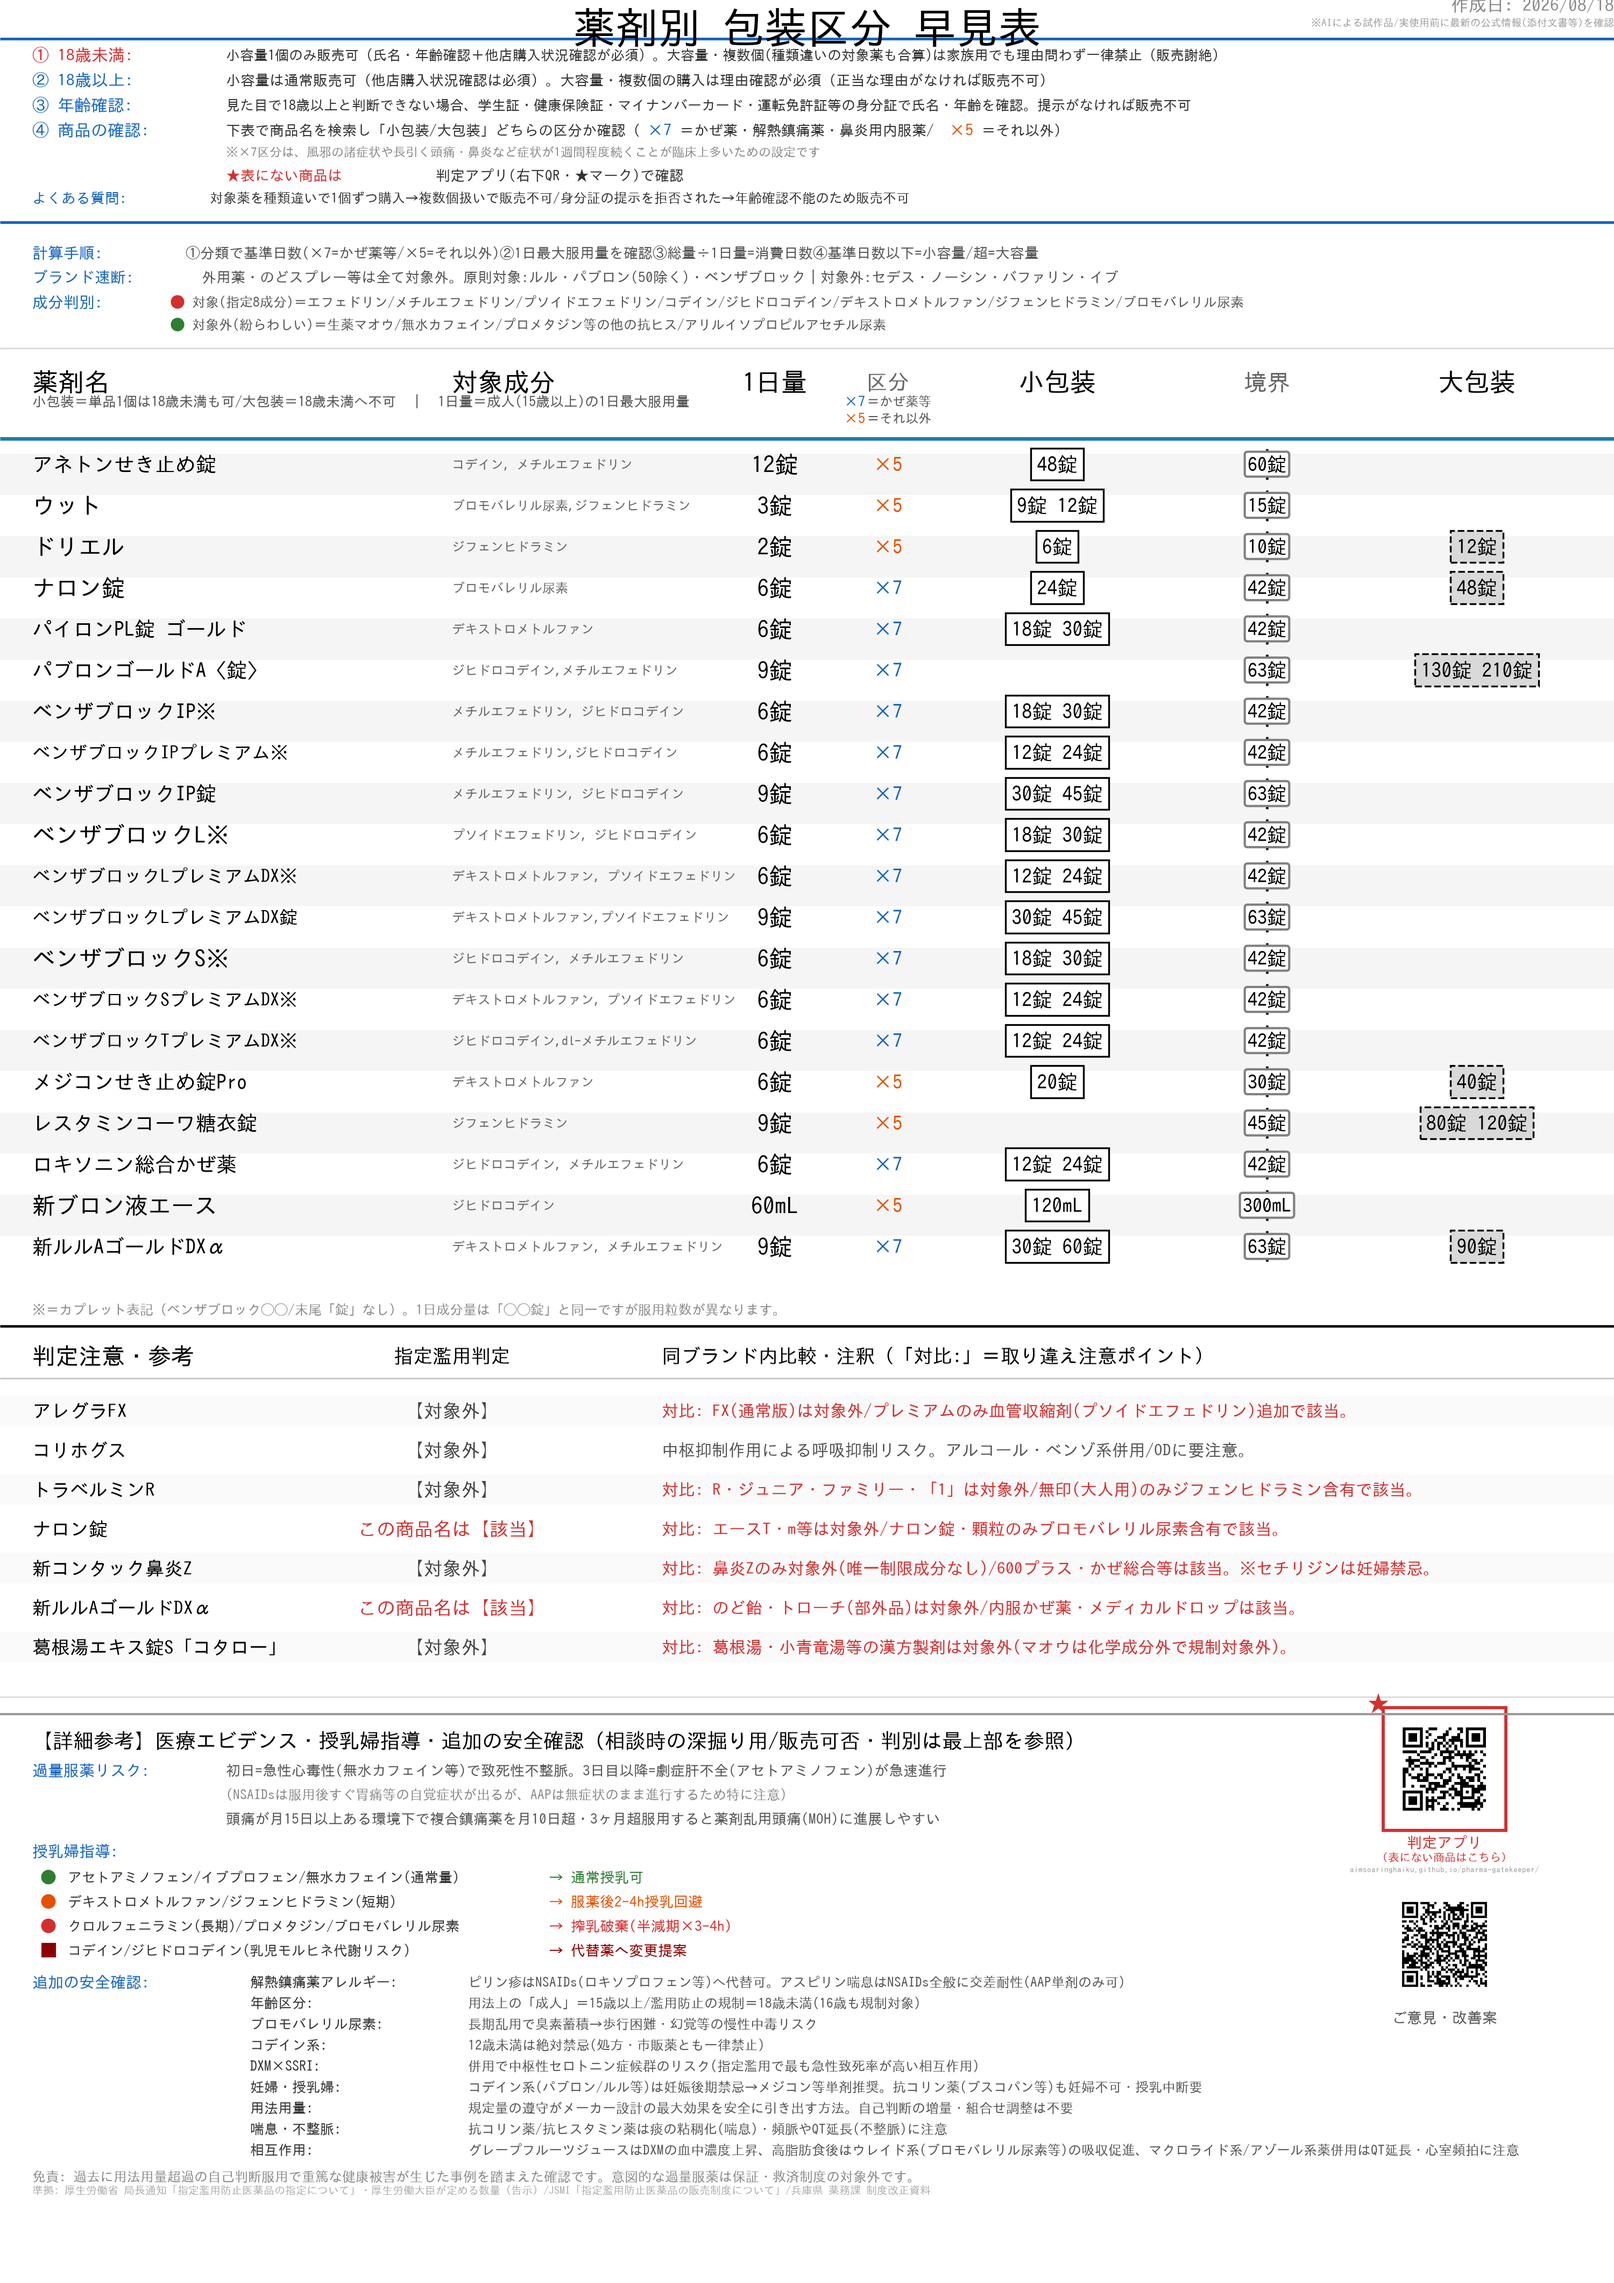
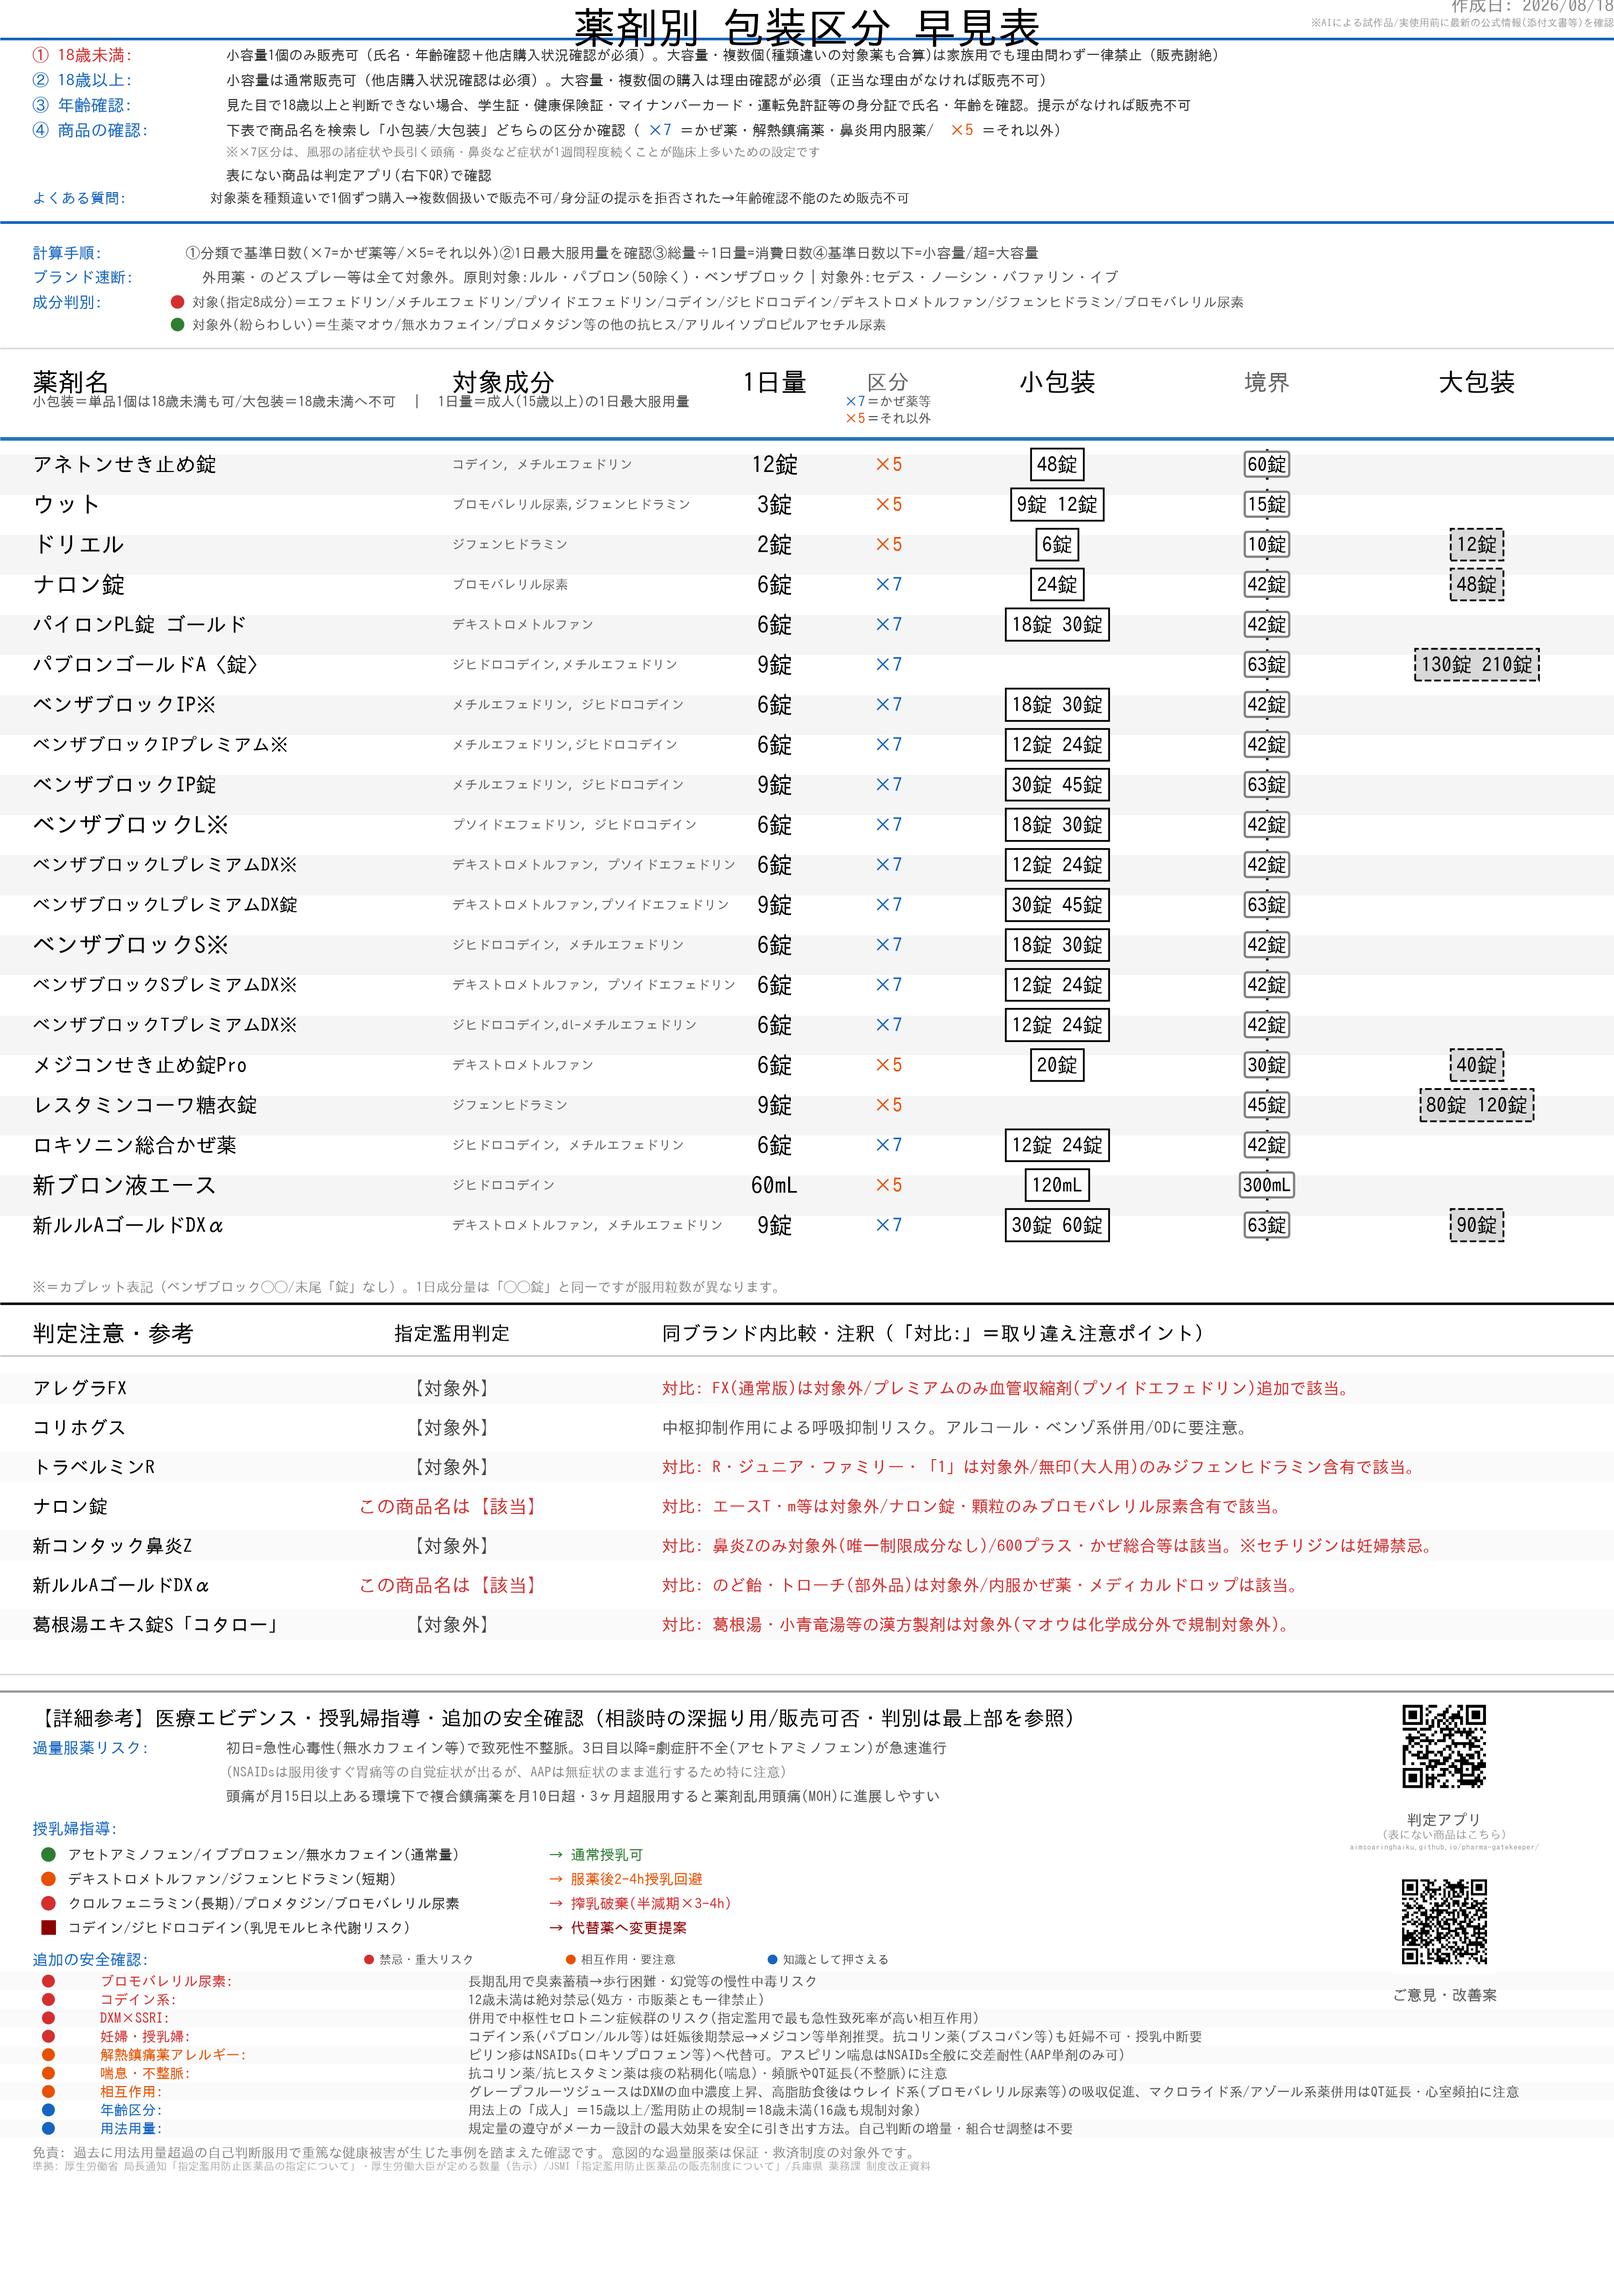
追加の安全確認に危険度の色分けを導入し、アプリ表記を控えめに変更
・「追加の安全確認」に凡例(赤=禁忌・重大リスク/オレンジ=相互作用・
  要注意/青=知識として押さえる)を追加し、各項目に色付きマーカーと
  ゼブラ縞を導入。視覚的な優先順位が失われていた問題を解消
・QRコードの赤枠・★マーク・赤字強調を削除し、通常表記に戻して
  判定アプリの存在感を控えめに変更
・④に「表にない商品は判定アプリ(右下QR)で確認」を目立たせず追加
・main table row_heightと安全確認のゼブラ行間を僅かに縮小し
  安全マージンを確保

diff --git a/vpc_v9_single_page.py b/vpc_v9_single_page.py
@@ -187,8 +187,7 @@ ax.text(COL_NAME_X + 12.0, current_y,
         "※×7区分は、風邪の諸症状や長引く頭痛・鼻炎など症状が1週間程度続くことが臨床上多いための設定です",
         fontsize=5.6, ha="left", va="center", color=LGRAY)
 current_y -= 1.45
-ax.text(COL_NAME_X + 12.0, current_y, "★表にない商品は", fontsize=6.5, fontweight="bold", ha="left", va="center", color=RED)
-ax.text(COL_NAME_X + 25.0, current_y, "判定アプリ(右下QR・★マーク)で確認", fontsize=6.5, fontweight="bold", ha="left", va="center", color="#333333")
+ax.text(COL_NAME_X + 12.0, current_y, "表にない商品は判定アプリ(右下QR)で確認", fontsize=6.3, ha="left", va="center", color="#333333")
 current_y -= 1.4
 ax.text(COL_NAME_X, current_y, "よくある質問:", fontsize=6.6, fontweight="bold", ha="left", va="center", color=BLUE)
 ax.text(COL_NAME_X + 11.0, current_y,
@@ -247,7 +246,7 @@ ax.hlines(current_y, 0, LOGICAL_W, linewidth=1.6)
 current_y -= 1.6
 
 main_rows = len(mart)
-row_height = 2.55
+row_height = 2.48
 
 for i, row in mart.iterrows():
     if i % 2 == 0:
@@ -330,9 +329,6 @@ QR_X = 89.5
 
 qr1_top = detail_top - 0.2
 qr1_center_y = qr1_top - qr_size / 2
-ax.add_patch(patches.Rectangle((QR_X - qr_size/2 - 0.6, qr1_center_y - qr_size/2 - 0.6),
-                               qr_size + 1.2, qr_size + 1.2, fill=False, edgecolor=RED, linewidth=1.4, zorder=2))
-ax.text(QR_X - qr_size/2 - 0.9, qr1_center_y + qr_size/2 + 0.9, "★", fontsize=10, ha="center", va="center", color=RED, fontweight="bold")
 try:
     qr_img = mpimg.imread(QR_APP_PATH)
     ax.imshow(qr_img, extent=[QR_X - qr_size/2, QR_X + qr_size/2,
@@ -341,9 +337,9 @@ except Exception:
     ax.add_patch(patches.Rectangle((QR_X - qr_size/2, qr1_center_y - qr_size/2), qr_size, qr_size,
                                    fill=False, edgecolor="#cccccc", zorder=3))
 qr1_y = qr1_center_y - qr_size/2 - 0.85
-ax.text(QR_X, qr1_y, "判定アプリ", fontsize=6.8, ha="center", va="top", color=RED, fontweight="bold")
+ax.text(QR_X, qr1_y, "判定アプリ", fontsize=6.8, ha="center", va="top", color="#555555", fontweight="bold")
 qr1_y -= 1.05
-ax.text(QR_X, qr1_y, "(表にない商品はこちら)", fontsize=5.0, ha="center", va="top", color=RED)
+ax.text(QR_X, qr1_y, "(表にない商品はこちら)", fontsize=5.0, ha="center", va="top", color="#999999")
 qr1_y -= 0.85
 ax.text(QR_X, qr1_y, APP_URL.replace("https://", ""), fontsize=3.7, ha="center", va="top", color="#999999")
 
@@ -403,23 +399,33 @@ for color, shape, tag, ingr in nursing_rows:
 
 y -= 0.45
 ax.text(COL_NAME_X, y, "追加の安全確認:", fontsize=7.07, fontweight="bold", ha="left", va="center", color=BLUE)
-SAFETY_SUBJ_X = COL_NAME_X + 13.5
+ax.text(COL_NAME_X + 20.5, y, "●", fontsize=5.3, ha="left", va="center", color=RED)
+ax.text(COL_NAME_X + 21.5, y, "禁忌・重大リスク", fontsize=5.3, ha="left", va="center", color="#555555")
+ax.text(COL_NAME_X + 33.0, y, "●", fontsize=5.3, ha="left", va="center", color=ORANGE)
+ax.text(COL_NAME_X + 34.0, y, "相互作用・要注意", fontsize=5.3, ha="left", va="center", color="#555555")
+ax.text(COL_NAME_X + 45.5, y, "●", fontsize=5.3, ha="left", va="center", color=BLUE)
+ax.text(COL_NAME_X + 46.5, y, "知識として押さえる", fontsize=5.3, ha="left", va="center", color="#555555")
+SAFETY_SUBJ_X = COL_NAME_X + 4.2
 SAFETY_DET_X = COL_NAME_X + 27.0
 safety_items = [
-    ("解熱鎮痛薬アレルギー:", "ピリン疹はNSAIDs(ロキソプロフェン等)へ代替可。アスピリン喘息はNSAIDs全般に交差耐性(AAP単剤のみ可)"),
-    ("年齢区分:", "用法上の「成人」＝15歳以上/濫用防止の規制＝18歳未満(16歳も規制対象)"),
-    ("ブロモバレリル尿素:", "長期乱用で臭素蓄積→歩行困難・幻覚等の慢性中毒リスク"),
-    ("コデイン系:", "12歳未満は絶対禁忌(処方・市販薬とも一律禁止)"),
-    ("DXM×SSRI:", "併用で中枢性セロトニン症候群のリスク(指定濫用で最も急性致死率が高い相互作用)"),
-    ("妊婦・授乳婦:", "コデイン系(パブロン/ルル等)は妊娠後期禁忌→メジコン等単剤推奨。抗コリン薬(ブスコパン等)も妊婦不可・授乳中断要"),
-    ("用法用量:", "規定量の遵守がメーカー設計の最大効果を安全に引き出す方法。自己判断の増量・組合せ調整は不要"),
-    ("喘息・不整脈:", "抗コリン薬/抗ヒスタミン薬は痰の粘稠化(喘息)・頻脈やQT延長(不整脈)に注意"),
-    ("相互作用:", "グレープフルーツジュースはDXMの血中濃度上昇、高脂肪食後はウレイド系(ブロモバレリル尿素等)の吸収促進、マクロライド系/アゾール系薬併用はQT延長・心室頻拍に注意"),
+    (RED, "ブロモバレリル尿素:", "長期乱用で臭素蓄積→歩行困難・幻覚等の慢性中毒リスク"),
+    (RED, "コデイン系:", "12歳未満は絶対禁忌(処方・市販薬とも一律禁止)"),
+    (RED, "DXM×SSRI:", "併用で中枢性セロトニン症候群のリスク(指定濫用で最も急性致死率が高い相互作用)"),
+    (RED, "妊婦・授乳婦:", "コデイン系(パブロン/ルル等)は妊娠後期禁忌→メジコン等単剤推奨。抗コリン薬(ブスコパン等)も妊婦不可・授乳中断要"),
+    (ORANGE, "解熱鎮痛薬アレルギー:", "ピリン疹はNSAIDs(ロキソプロフェン等)へ代替可。アスピリン喘息はNSAIDs全般に交差耐性(AAP単剤のみ可)"),
+    (ORANGE, "喘息・不整脈:", "抗コリン薬/抗ヒスタミン薬は痰の粘稠化(喘息)・頻脈やQT延長(不整脈)に注意"),
+    (ORANGE, "相互作用:", "グレープフルーツジュースはDXMの血中濃度上昇、高脂肪食後はウレイド系(ブロモバレリル尿素等)の吸収促進、マクロライド系/アゾール系薬併用はQT延長・心室頻拍に注意"),
+    (BLUE, "年齢区分:", "用法上の「成人」＝15歳以上/濫用防止の規制＝18歳未満(16歳も規制対象)"),
+    (BLUE, "用法用量:", "規定量の遵守がメーカー設計の最大効果を安全に引き出す方法。自己判断の増量・組合せ調整は不要"),
 ]
-for subj, detail in safety_items:
-    ax.text(SAFETY_SUBJ_X, y, subj, fontsize=6.2, fontweight="bold", ha="left", va="center", color="#333333")
+y -= 1.35
+for i, (color, subj, detail) in enumerate(safety_items):
+    if i % 2 == 0:
+        ax.add_patch(patches.Rectangle((0, y - 0.57), LOGICAL_W, 1.14, facecolor="#fafafa", edgecolor="none"))
+    marker(ax, COL_NAME_X + 1.0, y, color, "circle", 0.4)
+    ax.text(SAFETY_SUBJ_X, y, subj, fontsize=6.2, fontweight="bold", ha="left", va="center", color=color)
     ax.text(SAFETY_DET_X, y, detail, fontsize=6.1, ha="left", va="center", color=GRAY)
-    y -= 1.3
+    y -= 1.14
 y -= 0.1
 
 y -= 0.25
